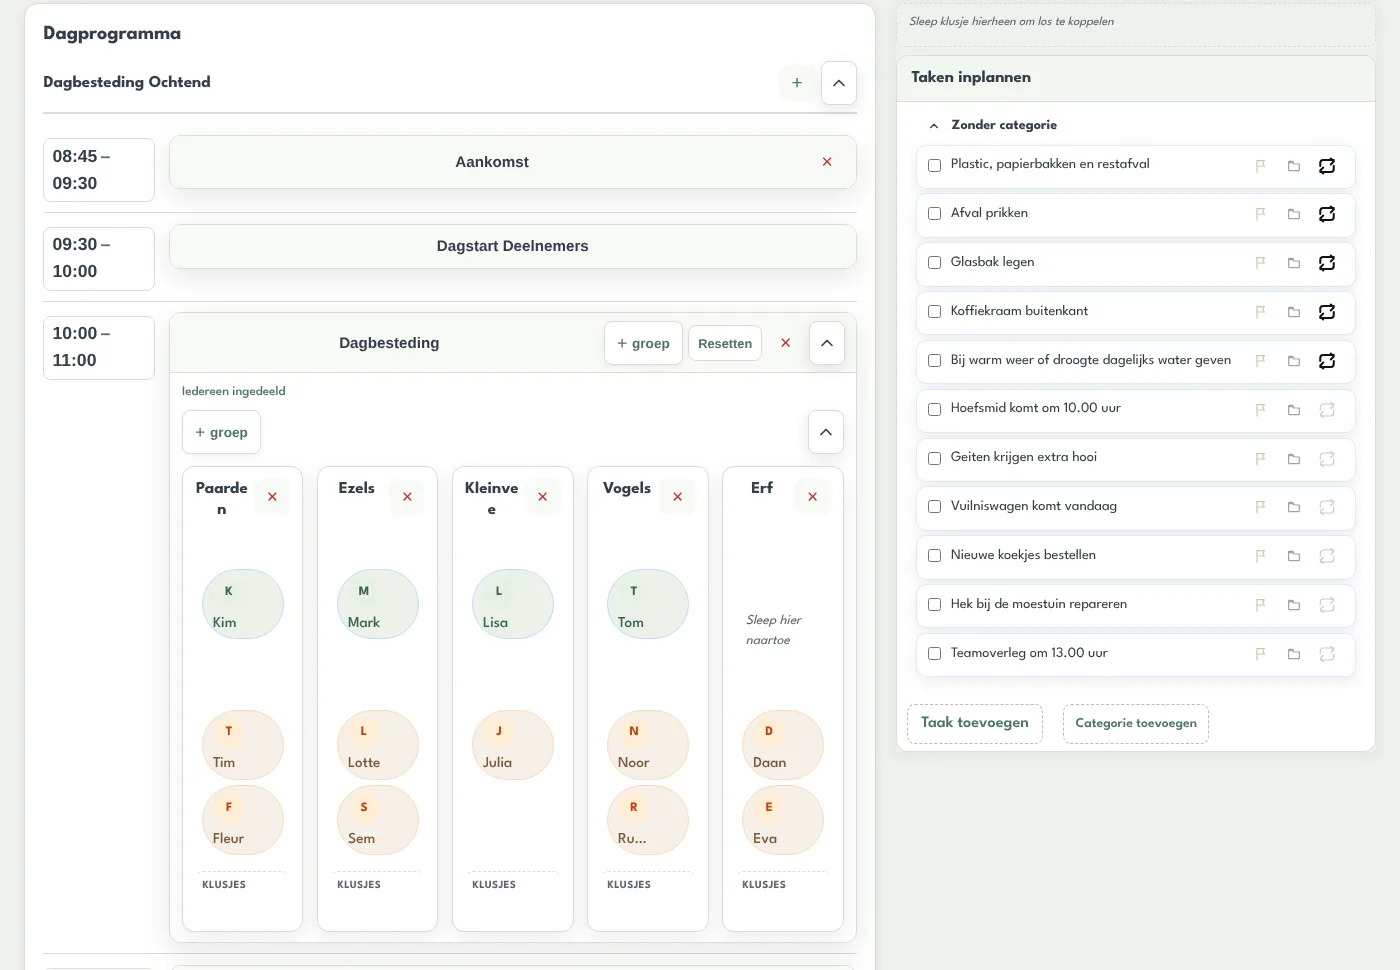
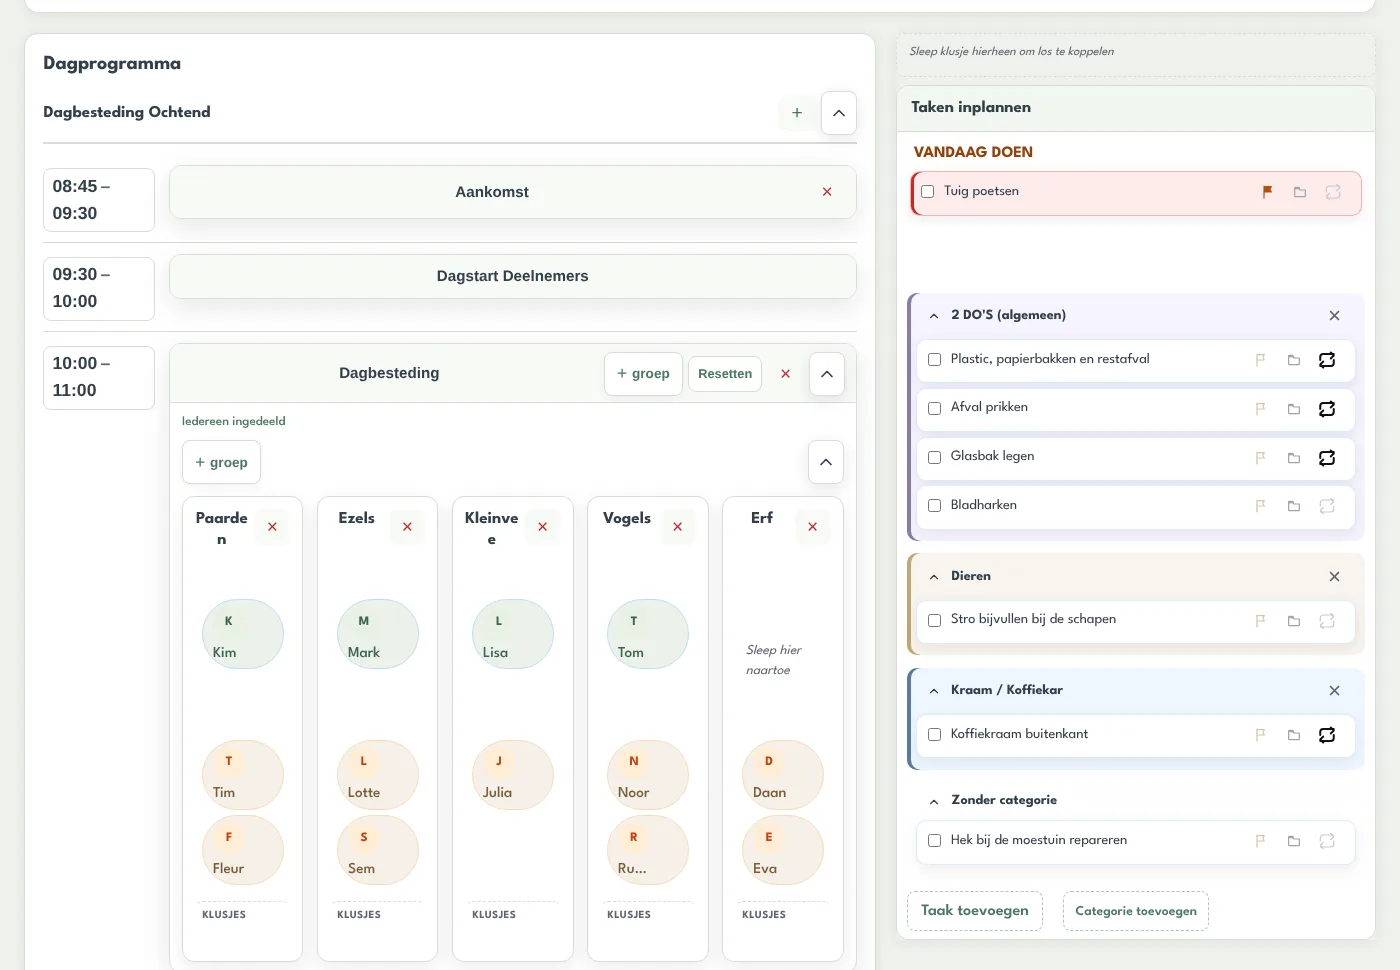
Digibord-les: uitleg Taken inplannen bij stap 4, oude indeling vast/extra eruit
Claude-Session: https://claude.ai/code/session_01YJR1csE5VvoExwNnz73v5v

diff --git a/src/components/Timeline.jsx b/src/components/Timeline.jsx
@@ -22,7 +22,10 @@ function Timeline({ items = [] }) {
                 ? item.extra.map((extra, extraIndex) => (
                     <div key={extraIndex} className="timeline__extra">
                       {extra.text ? <p className="timeline__text"><RichText text={extra.text} /></p> : null}
-                      {extra.src ? <ZoomImage src={extra.src} alt={extra.alt || ''} /> : null}
+                      {extra.src && extra.zoom === false ? (
+                        <img className="timeline__img" src={extra.src} alt={extra.alt || ''} loading="lazy" />
+                      ) : null}
+                      {extra.src && extra.zoom !== false ? <ZoomImage src={extra.src} alt={extra.alt || ''} /> : null}
                     </div>
                   ))
                 : null}

diff --git a/src/components/Timeline.css b/src/components/Timeline.css
@@ -71,3 +71,11 @@
   padding-top: 0.8rem;
   border-top: 1px dashed var(--tile-border);
 }
+
+.timeline__img {
+  display: block;
+  width: 100%;
+  height: auto;
+  margin-top: 0.7rem;
+  border-radius: 0.6rem;
+}
